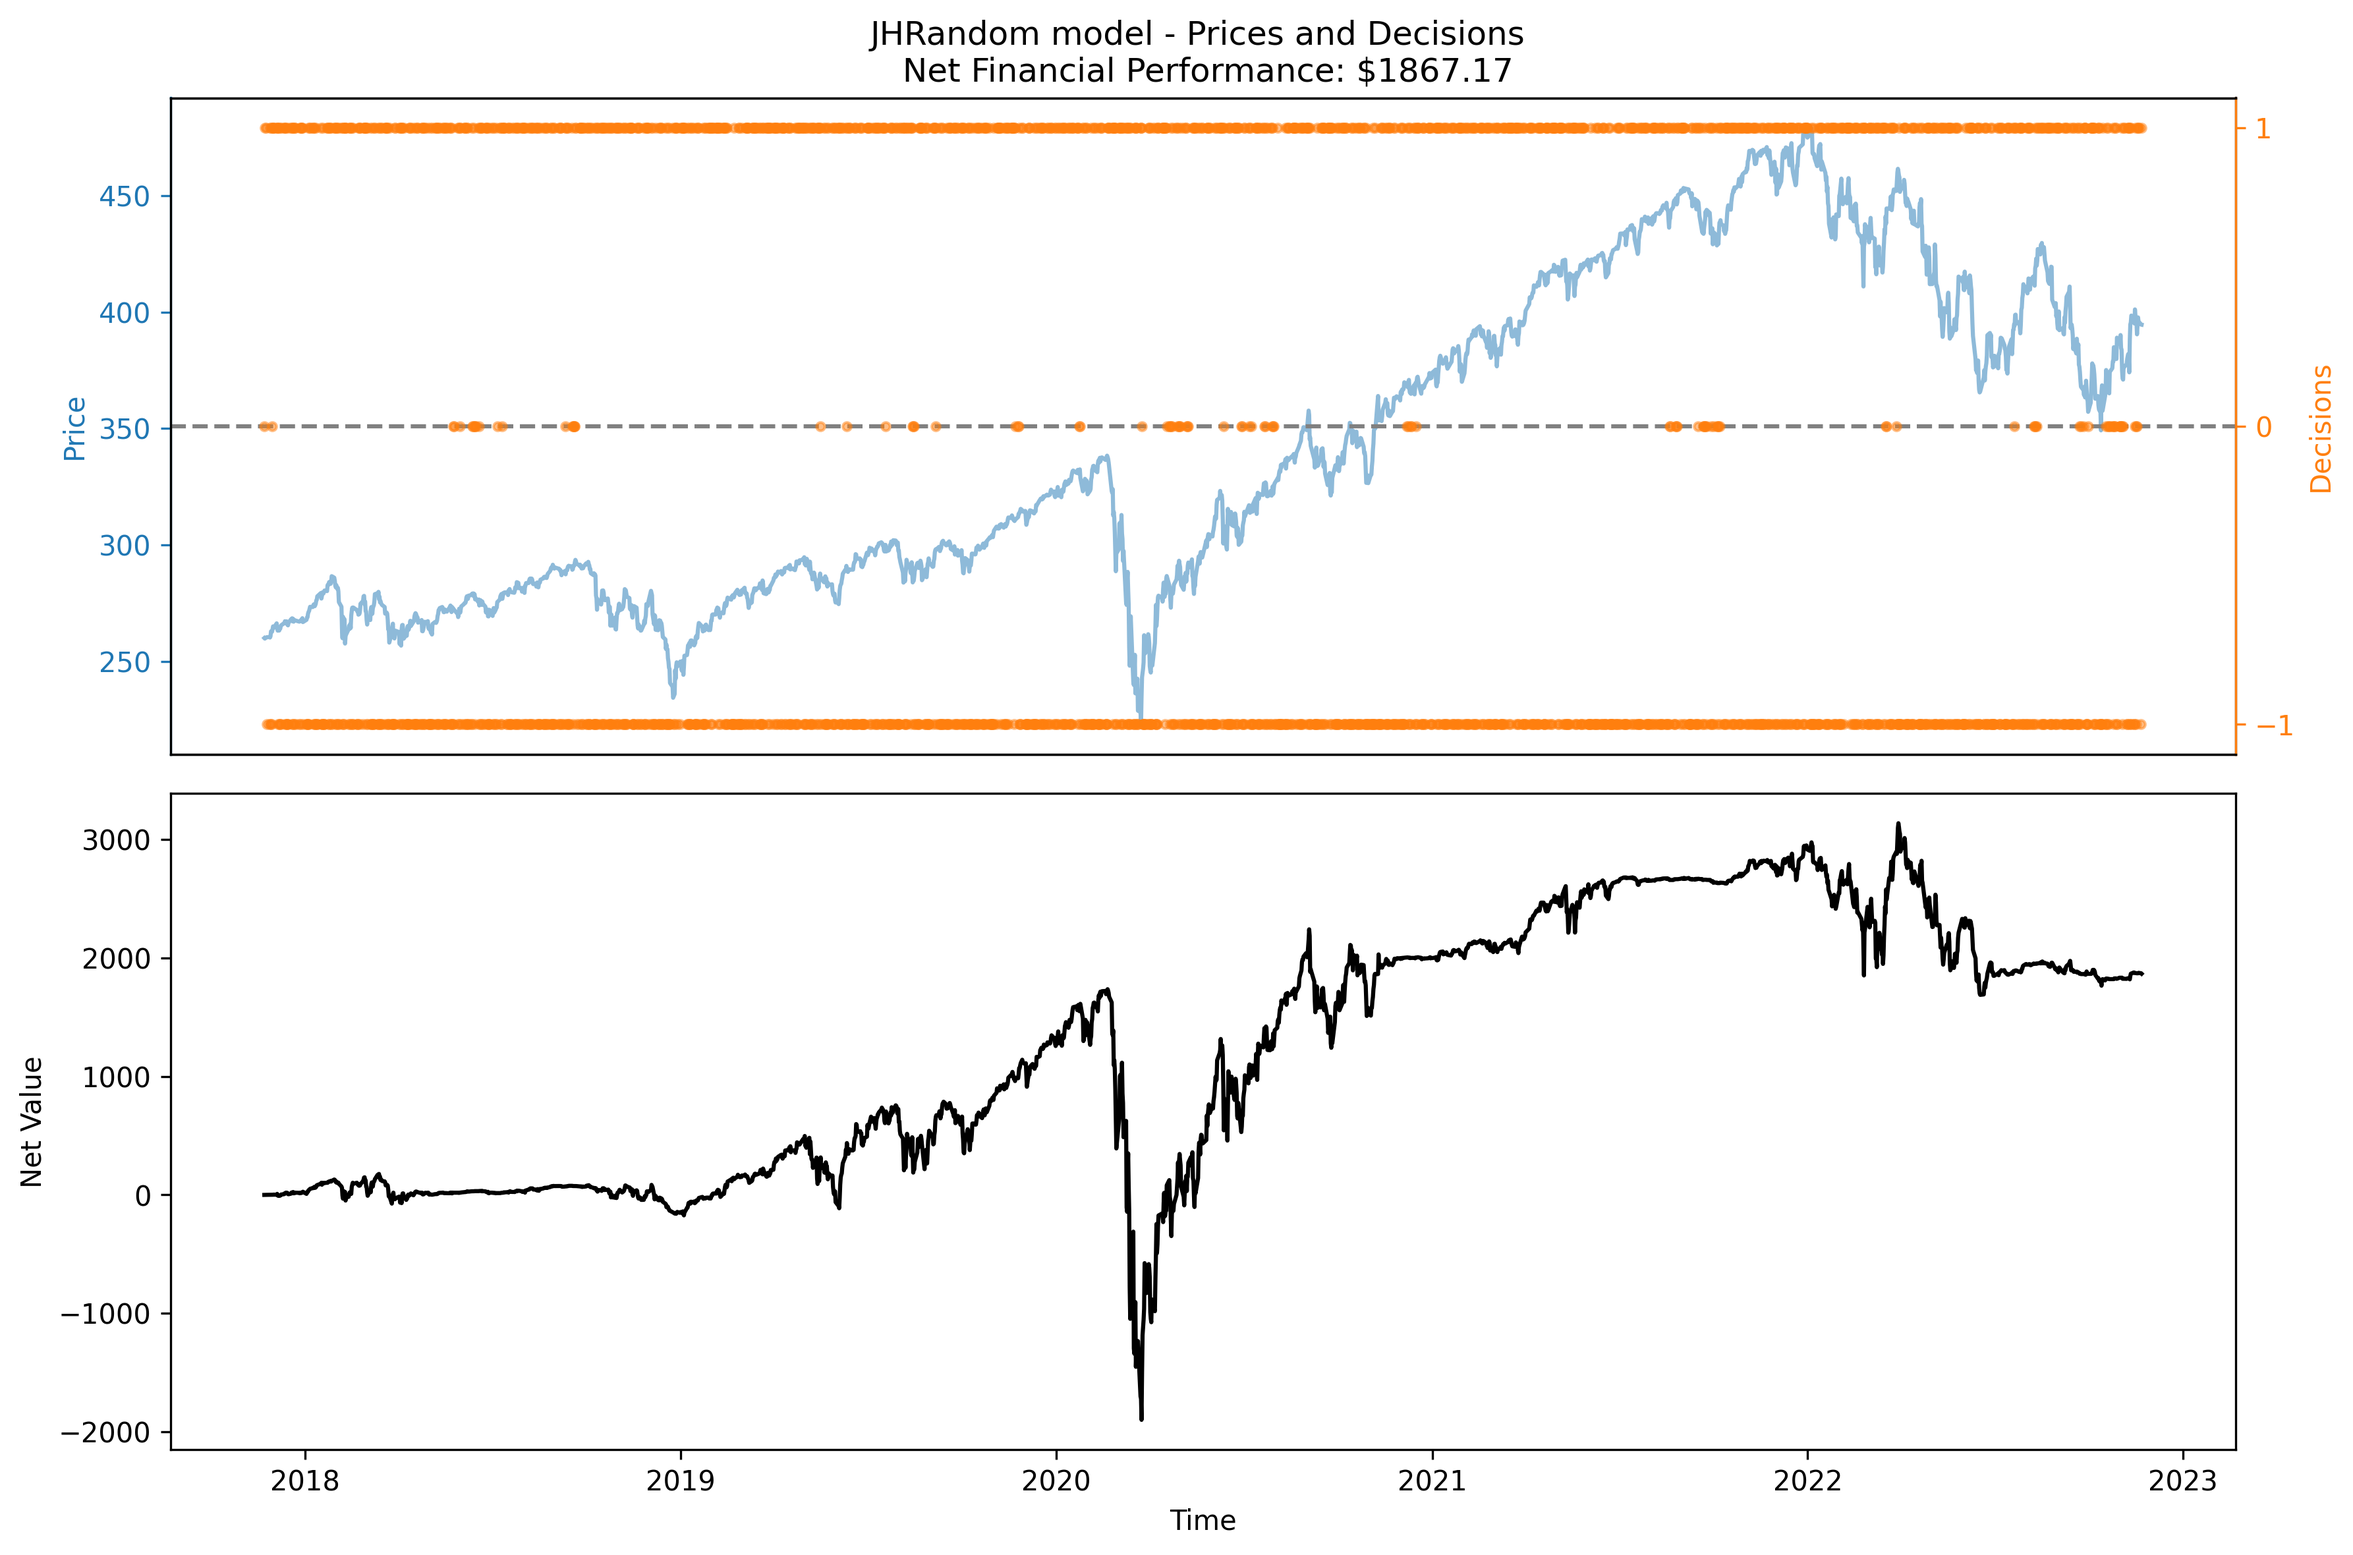
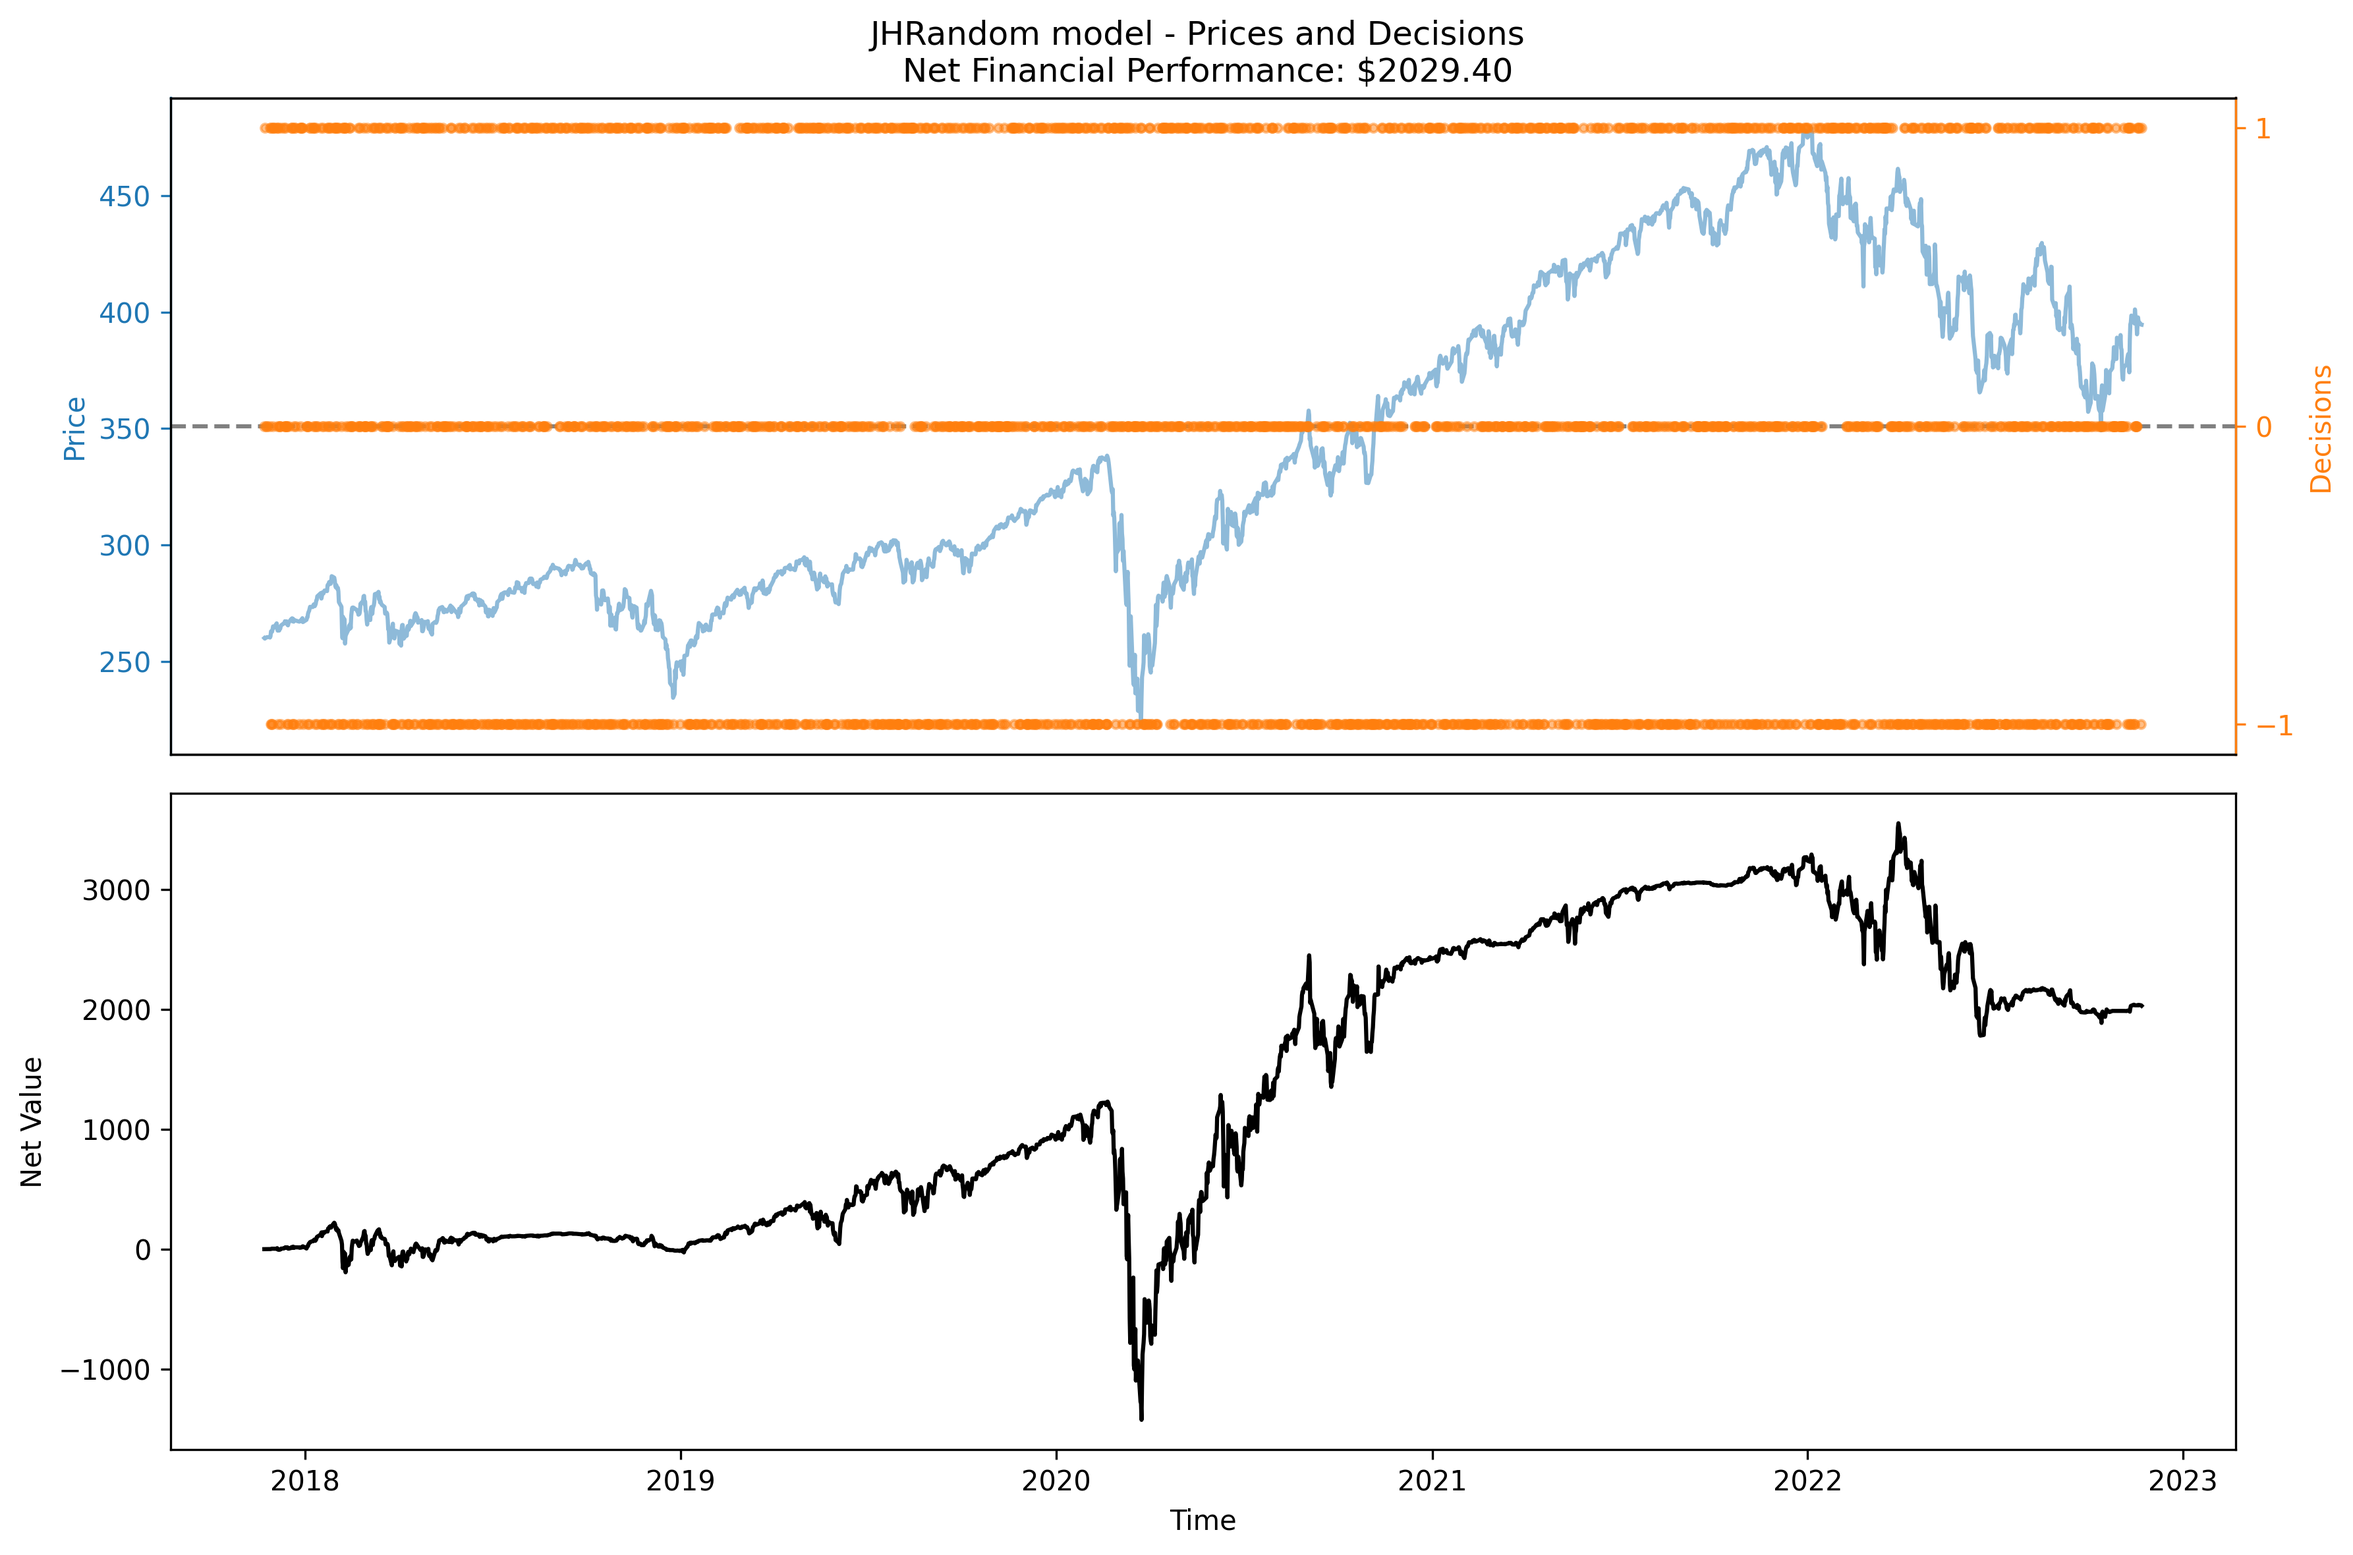
added multi-plot for comparing models

diff --git a/src/evaluate_models.py b/src/evaluate_models.py
@@ -10,6 +10,8 @@ import argparse
 import timeit
 import tracemalloc
 import numpy as np
+import pandas as pd
+import seaborn as sns
 import matplotlib.pyplot as plt
 from matplotlib.ticker import MaxNLocator
 plt.ioff() # disable interactive plotting
@@ -85,7 +87,7 @@ def evaluate_model(
 def plot_decisions(
         model,
         time_perf_ms=None,
-        show_plot=False,
+        show_plot=True,
         save_fig=False,
 ):
     xx = df_w_dates.index.values
@@ -117,11 +119,11 @@ def plot_decisions(
         labelcolor=price_color,
     )
     ax1.tick_params(
-        axis='x',          # changes apply to the x-axis
-        which='both',      # both major and minor ticks are affected
-        bottom=False,      # ticks along the bottom edge are off
-        top=False,         # ticks along the top edge are off
-        labelbottom=False  # labels along the bottom edge are off
+        axis='x',          # modify the x-axis
+        which='both',      # apply to both major and minor ticks
+        bottom=False,      # turn off ticks along the bottom edge
+        top=False,         # turn off ticks along the top edge
+        labelbottom=False  # turn off labels along the bottom edge
     )
     
     # ----- plot decisions
@@ -181,11 +183,88 @@ def plot_decisions(
     else:
         plt.close(fig)
 
+# TODO: Reconcile colors with plot_decisions? Black is used for input data
+#       here, but plot_decisions uses it for net model value.
+def plot_comp(
+        fin_comp_data,
+        show_plot=True,
+        save_fig=False,
+):
+    fin_comp_df = None
+    for row in fin_comp_data:
+        _df = pd.DataFrame(
+            row['data'],
+            columns=['Net Value'],
+            index=df_w_dates.index,
+        )
+        _df['Model'] = row['name']
+        fin_comp_df = _df if fin_comp_df is None\
+            else pd.concat([fin_comp_df, _df])
+    fin_comp_cols = [*fin_comp_df.columns.values]
+    fin_comp_cols.insert(0, 'Time')
+    fin_comp_df.reset_index(inplace=True)
+    fin_comp_df.columns = fin_comp_cols
+    
+    # NOTE: e.g. to convert timestamp to numeric for linreg
+    # fin_comp_df['time'] = fin_comp_df['time'].apply(lambda x: x.value)
+    
+    fig, [ax1, ax2] = plt.subplots(
+        nrows=2,
+        ncols=1,
+        figsize=(12, 8),
+        sharex=True,
+    )
+    sns.lineplot(
+        data=fin_comp_df,
+        x='Time',
+        y='Net Value',
+        hue='Model',
+        palette='tab10',
+        ax=ax1,
+    )
+    ax1.tick_params(
+        axis='x',          # modify the x-axis
+        which='both',      # apply to both major and minor ticks
+        bottom=False,      # turn off ticks along the bottom edge
+        top=False,         # turn off ticks along the top edge
+        labelbottom=False  # turn off labels along the bottom edge
+    )
+    
+    ax2.plot(
+        df_w_dates.index.values,
+        one_dim,
+        color='black',
+    )
+    ax2.set_xlabel('Time')
+    ax2.set_ylabel('Price')
+    fig.suptitle('Financial Performance - A Few Models')
+    plt.tight_layout()
+    plt.tight_layout()
+    if save_fig:
+        plt.savefig(
+            f'figs/model_comparison.png',
+            dpi=300,
+            bbox_inches='tight'
+        )
+    if show_plot:
+        plt.show()
+    else:
+        plt.close(fig)
+    plt.show()
+    
+
 # ----- main execution
 def main():
     # TODO delete these argument override
     include_plots = True
     save_figs = True
+    comp_models = [model_type.__name__ for model_type in [
+        GHBuyCloseSellOpen,
+        JHMinMax,
+        JHOmniscientMinMax,
+        JHRandom,
+    ]]
+    fin_comp_data = []
     
     results = []
     for model_type in [
@@ -212,21 +291,30 @@ def main():
                     number=time_perf_iter,
                 )*1000/time_perf_iter
         model = evaluate_model(one_dim, model_type)
+        fin_perf = model.get_net_value()
         results.append([
             model_name,
             model,
-            model.get_net_value(),
+            fin_perf,
             time_perf_ms,
         ])
+        if model_name in comp_models:
+            fin_comp_data.append({
+                'name': model_name,
+                'data': model.net_values,
+            })
+        
         if include_plots:
             plot_decisions(
                 model,
                 time_perf_ms=time_perf_ms,
-                show_plot=True,
                 save_fig=save_figs,
             )
     
     results = np.array(results)
+    
+    if include_plots:
+        plot_comp(fin_comp_data, save_fig=save_figs)
     
     print('financial performance:')
     for i in np.flip(np.argsort(results[:,2])):

diff --git a/src/util/jh_refmodels.py b/src/util/jh_refmodels.py
@@ -26,7 +26,7 @@ class JHRandom(Model):
         self.rng = Generator(PCG64(seed))
     
     def decide(self, snapshot):
-        return self.rng.choice([-1, 1])
+        return self.rng.choice([-1, 0, 1])
 
 # Buy at the minimum (using all budget) and sell all at the maximum... if only we had a crystal ball
 class JHOmniscientMinMax(Model):
